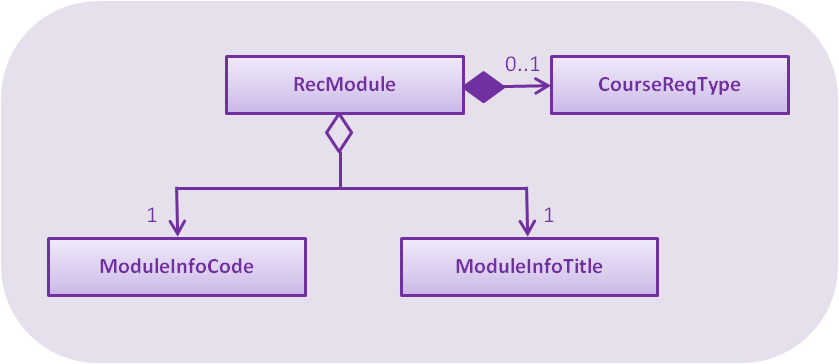
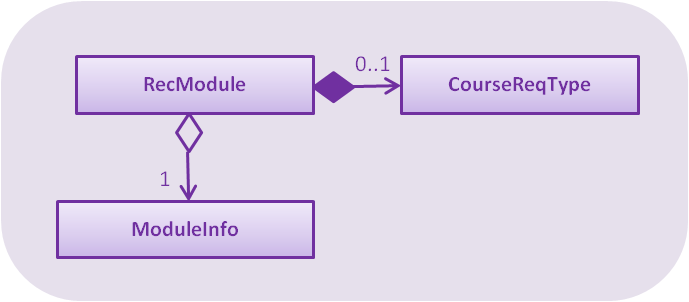
Rebuild pages at 442a10adc8877813006aaeaf22de2bf28a02880e

Changed region(s): [[0.0305, 0.149, 0.9448, 0.8642]]

diff --git a/team/lshwayne96.html b/team/lshwayne96.html
@@ -188,12 +188,12 @@ types satisfied. The entire list is displayed on the Result Panel upon entering 
 <div class="sect3">
 <h4 id="current-implementation"><a class="link" href="#current-implementation">Current implementation</a></h4>
 <div class="paragraph">
-<p>Each recommended module is represented by a <code>RecModule</code> which contains a unique <code>ModuleInfoCode</code>, <code>ModuleInfoTitle</code> and its corresponding
+<p>Each recommended module is represented by a <code>RecModule</code> which contains a unique <code>ModuleInfo</code> and its corresponding
 <code>CourseReqType</code> satisfied, as shown in the diagram below.</p>
 </div>
 <div class="imageblock">
 <div class="content">
-<img src="../images/RecModuleClassDiagram.png" alt="RecModuleClassDiagram" width="500">
+<img src="../images/RecModuleClassDiagram.png" alt="RecModuleClassDiagram" width="400">
 </div>
 <div class="title">Figure 5. <code>RecModule</code> class diagram</div>
 </div>
@@ -211,13 +211,16 @@ which is further wrapped in a <code>SortedList</code>, both stored in <code>Mode
 <p><code>Model#updateRecModuleList</code> is called, which creates a <code>RecModulePredicate</code> given the user&#8217;s <code>Course</code> and <code>GradTrak</code>, and a <code>RecModuleComparator</code>.</p>
 </li>
 <li>
-<p>The <code>RecModulePredicate</code> is applied to the <code>FilteredList</code> of <code>RecModule</code>.</p>
+<p>The <code>RecModulePredicate</code> is applied to the <code>FilteredList</code> of <code>RecModule</code>. In each test:</p>
 <div class="olist loweralpha">
 <ol class="loweralpha" type="a">
 <li>
-<p>It first tests if the <code>ModuleInfoCode</code> (call it <code>codeToTest</code>) in a <code>RecModule</code> is eligible to be read,
-using an <code>EligibleModulePredicate</code> which takes in <code>GradTrak</code>. Those <code>RecModule</code> corresponding to <code>ModuleTaken</code> in <code>GradTrak</code>
-which are already passed or to be read in a future semester (collectively known as non-failed modules) are filtered out at this stage.</p>
+<p>An <code>EligibleModulePredicate</code> which takes in <code>GradTrak</code> tests if the <code>ModuleInfo</code> of this <code>RecModule</code> is eligible to be read.
+If the module is already present in GradTrak or does not have its prerequisites satisfied, this <code>RecModule</code> is filtered out.</p>
+</li>
+<li>
+<p>The <code>ModuleInfoCode</code> (call it <code>codeToTest</code>) of the <code>RecModule</code> is retrieved.<br>
+A <code>nonFailedCodeList</code> of <code>ModuleInfoCode</code> corresponding to non-failed <code>ModuleTaken</code> (already passed or to be read in a future semester) is also retrieved from <code>GradTrak</code>.</p>
 </li>
 <li>
 <p>The <code>codeToTest</code> is then passed into <code>Course#getCourseReqTypeOf</code>, which in turn calls <code>CourseRequirement#canFulfill</code> for each <code>CourseRequirement</code> listed in <code>Course</code>.
@@ -225,8 +228,7 @@ which are already passed or to be read in a future semester (collectively known 
 This <code>courseReqTypeList</code> is sorted by the priority of <code>CourseReqType</code> as defined in the <code>enum</code> class: <code>CORE</code>, <code>BD</code>, <code>IE</code>, <code>FAC</code>, <code>GE</code>, <code>UE</code>.</p>
 </li>
 <li>
-<p>A <code>nonFailedCodeList</code> of <code>ModuleInfoCode</code> corresponding to non-failed <code>ModuleTaken</code> is retrieved from <code>GradTrak</code>.
-For each <code>CourseReqType</code> in the <code>courseReqTypeList</code> (highest priority first):</p>
+<p>For each <code>CourseReqType</code> in the <code>courseReqTypeList</code> (highest priority first):</p>
 <div class="olist lowerroman">
 <ol class="lowerroman" type="i">
 <li>
@@ -245,7 +247,7 @@ is called which takes in the <code>nonFailedCodeList</code> and returns an <code
 </li>
 <li>
 <p>The <code>CourseReqType</code> of highest priority satisfied by <code>codeToTest</code> is then set into the <code>RecModule</code>. However, if the <code>codeToTest</code> does not
-contribute to any of the <code>CourseRequirement</code> listed in <code>Course</code>, the <code>RecModule</code> is filtered out.</p>
+contribute to any of the <code>CourseRequirement</code> listed in <code>Course</code>, this <code>RecModule</code> is filtered out.</p>
 </li>
 </ol>
 </div>
@@ -253,7 +255,7 @@ contribute to any of the <code>CourseRequirement</code> listed in <code>Course</
 <li>
 <p>The <code>RecModuleComparator</code> is applied to the <code>SortedList</code> of <code>RecModule</code>. It sorts the list in decreasing priority of the
 <code>CourseReqType</code> satisfied by the <code>RecModule</code>. Those <code>RecModule</code> with equal priority are sorted by module level (the first numerical digit of its <code>ModuleInfoCode</code>),
-considering that lower level modules are usually read first. In the case of equal priority and module level, lexicographical sorting is used.</p>
+considering that lower level modules are usually read first. In the case of equal priority and module level, lexicographical sorting of its <code>ModuleInfoCode</code> is used.</p>
 </li>
 <li>
 <p>The <code>SortedList</code> of <code>RecModule</code> is retrieved from <code>ModelManager</code> and displayed to the user in the Result Panel.</p>
@@ -321,39 +323,6 @@ must be run again to reflect the updated recommendation list.</p>
 </ul>
 </div>
 </div>
-<div class="sect4">
-<h5 id="aspect-how-code-coursereqtype-code-for-each-tested-module-is-stored"><a class="link" href="#aspect-how-code-coursereqtype-code-for-each-tested-module-is-stored">Aspect: How <code>CourseReqType</code> for each tested module is stored</a></h5>
-<div class="ulist">
-<ul>
-<li>
-<p><strong>Alternative 1 (current choice): <code>CourseReqType</code> is stored in <code>RecModule</code> together with <code>ModuleInfoCode</code> and <code>ModuleInfoTitle</code></strong></p>
-<div class="ulist">
-<ul>
-<li>
-<p>Pros: More organised; any additional information the user wishes to be displayed can also be stored in <code>RecModule</code></p>
-</li>
-<li>
-<p>Cons: More space required for creating <code>RecModule</code> for all modules</p>
-</li>
-</ul>
-</div>
-</li>
-<li>
-<p><strong>Alternative 2 (previous choice): A <code>HashMap</code> of <code>ModuleInfoCode</code> to <code>CourseReqType</code> is stored; the map is reset before each <code>rec</code> command</strong></p>
-<div class="ulist">
-<ul>
-<li>
-<p>Pros: Only need to store <code>ModuleInfoCode</code> instead of <code>RecModule</code></p>
-</li>
-<li>
-<p>Cons: Retrieving other information of the module for displaying in the Result Panel is slightly problematic</p>
-</li>
-</ul>
-</div>
-</li>
-</ul>
-</div>
-</div>
 </div>
 <div class="sect3">
 <h4 id="possible-improvements"><a class="link" href="#possible-improvements">Possible Improvements</a></h4>
@@ -370,4 +339,4 @@ must be run again to reflect the updated recommendation list.</p>
 </div>
 </div>
 </div>
-</div></div><div id="footer"><div class="container"><div id="footer-text">Last updated 2019-04-12 09:21:35 UTC</div></div></div></body></html>
+</div></div><div id="footer"><div class="container"><div id="footer-text">Last updated 2019-04-12 12:22:28 UTC</div></div></div></body></html>

diff --git a/DeveloperGuide.html b/DeveloperGuide.html
@@ -1058,12 +1058,12 @@ types satisfied. The entire list is displayed on the Result Panel upon entering 
 <div class="sect3">
 <h4 id="current-implementation-4"><a class="link" href="#current-implementation-4">3.4.1. Current implementation</a></h4>
 <div class="paragraph">
-<p>Each recommended module is represented by a <code>RecModule</code> which contains a unique <code>ModuleInfoCode</code>, <code>ModuleInfoTitle</code> and its corresponding
+<p>Each recommended module is represented by a <code>RecModule</code> which contains a unique <code>ModuleInfo</code> and its corresponding
 <code>CourseReqType</code> satisfied, as shown in the diagram below.</p>
 </div>
 <div class="imageblock">
 <div class="content">
-<img src="images/RecModuleClassDiagram.png" alt="RecModuleClassDiagram" width="500">
+<img src="images/RecModuleClassDiagram.png" alt="RecModuleClassDiagram" width="400">
 </div>
 <div class="title">Figure 9. <code>RecModule</code> class diagram</div>
 </div>
@@ -1081,13 +1081,16 @@ which is further wrapped in a <code>SortedList</code>, both stored in <code>Mode
 <p><code>Model#updateRecModuleList</code> is called, which creates a <code>RecModulePredicate</code> given the user&#8217;s <code>Course</code> and <code>GradTrak</code>, and a <code>RecModuleComparator</code>.</p>
 </li>
 <li>
-<p>The <code>RecModulePredicate</code> is applied to the <code>FilteredList</code> of <code>RecModule</code>.</p>
+<p>The <code>RecModulePredicate</code> is applied to the <code>FilteredList</code> of <code>RecModule</code>. In each test:</p>
 <div class="olist loweralpha">
 <ol class="loweralpha" type="a">
 <li>
-<p>It first tests if the <code>ModuleInfoCode</code> (call it <code>codeToTest</code>) in a <code>RecModule</code> is eligible to be read,
-using an <code>EligibleModulePredicate</code> which takes in <code>GradTrak</code>. Those <code>RecModule</code> corresponding to <code>ModuleTaken</code> in <code>GradTrak</code>
-which are already passed or to be read in a future semester (collectively known as non-failed modules) are filtered out at this stage.</p>
+<p>An <code>EligibleModulePredicate</code> which takes in <code>GradTrak</code> tests if the <code>ModuleInfo</code> of this <code>RecModule</code> is eligible to be read.
+If the module is already present in GradTrak or does not have its prerequisites satisfied, this <code>RecModule</code> is filtered out.</p>
+</li>
+<li>
+<p>The <code>ModuleInfoCode</code> (call it <code>codeToTest</code>) of the <code>RecModule</code> is retrieved.<br>
+A <code>nonFailedCodeList</code> of <code>ModuleInfoCode</code> corresponding to non-failed <code>ModuleTaken</code> (already passed or to be read in a future semester) is also retrieved from <code>GradTrak</code>.</p>
 </li>
 <li>
 <p>The <code>codeToTest</code> is then passed into <code>Course#getCourseReqTypeOf</code>, which in turn calls <code>CourseRequirement#canFulfill</code> for each <code>CourseRequirement</code> listed in <code>Course</code>.
@@ -1095,8 +1098,7 @@ which are already passed or to be read in a future semester (collectively known 
 This <code>courseReqTypeList</code> is sorted by the priority of <code>CourseReqType</code> as defined in the <code>enum</code> class: <code>CORE</code>, <code>BD</code>, <code>IE</code>, <code>FAC</code>, <code>GE</code>, <code>UE</code>.</p>
 </li>
 <li>
-<p>A <code>nonFailedCodeList</code> of <code>ModuleInfoCode</code> corresponding to non-failed <code>ModuleTaken</code> is retrieved from <code>GradTrak</code>.
-For each <code>CourseReqType</code> in the <code>courseReqTypeList</code> (highest priority first):</p>
+<p>For each <code>CourseReqType</code> in the <code>courseReqTypeList</code> (highest priority first):</p>
 <div class="olist lowerroman">
 <ol class="lowerroman" type="i">
 <li>
@@ -1115,7 +1117,7 @@ is called which takes in the <code>nonFailedCodeList</code> and returns an <code
 </li>
 <li>
 <p>The <code>CourseReqType</code> of highest priority satisfied by <code>codeToTest</code> is then set into the <code>RecModule</code>. However, if the <code>codeToTest</code> does not
-contribute to any of the <code>CourseRequirement</code> listed in <code>Course</code>, the <code>RecModule</code> is filtered out.</p>
+contribute to any of the <code>CourseRequirement</code> listed in <code>Course</code>, this <code>RecModule</code> is filtered out.</p>
 </li>
 </ol>
 </div>
@@ -1123,7 +1125,7 @@ contribute to any of the <code>CourseRequirement</code> listed in <code>Course</
 <li>
 <p>The <code>RecModuleComparator</code> is applied to the <code>SortedList</code> of <code>RecModule</code>. It sorts the list in decreasing priority of the
 <code>CourseReqType</code> satisfied by the <code>RecModule</code>. Those <code>RecModule</code> with equal priority are sorted by module level (the first numerical digit of its <code>ModuleInfoCode</code>),
-considering that lower level modules are usually read first. In the case of equal priority and module level, lexicographical sorting is used.</p>
+considering that lower level modules are usually read first. In the case of equal priority and module level, lexicographical sorting of its <code>ModuleInfoCode</code> is used.</p>
 </li>
 <li>
 <p>The <code>SortedList</code> of <code>RecModule</code> is retrieved from <code>ModelManager</code> and displayed to the user in the Result Panel.</p>
@@ -1184,39 +1186,6 @@ must be run again to reflect the updated recommendation list.</p>
 </li>
 <li>
 <p>Cons: Difficult to implement if several parameters for sorting is allowed; input method for the custom order is problematic</p>
-</li>
-</ul>
-</div>
-</li>
-</ul>
-</div>
-</div>
-<div class="sect4">
-<h5 id="aspect-how-code-coursereqtype-code-for-each-tested-module-is-stored"><a class="link" href="#aspect-how-code-coursereqtype-code-for-each-tested-module-is-stored">Aspect: How <code>CourseReqType</code> for each tested module is stored</a></h5>
-<div class="ulist">
-<ul>
-<li>
-<p><strong>Alternative 1 (current choice): <code>CourseReqType</code> is stored in <code>RecModule</code> together with <code>ModuleInfoCode</code> and <code>ModuleInfoTitle</code></strong></p>
-<div class="ulist">
-<ul>
-<li>
-<p>Pros: More organised; any additional information the user wishes to be displayed can also be stored in <code>RecModule</code></p>
-</li>
-<li>
-<p>Cons: More space required for creating <code>RecModule</code> for all modules</p>
-</li>
-</ul>
-</div>
-</li>
-<li>
-<p><strong>Alternative 2 (previous choice): A <code>HashMap</code> of <code>ModuleInfoCode</code> to <code>CourseReqType</code> is stored; the map is reset before each <code>rec</code> command</strong></p>
-<div class="ulist">
-<ul>
-<li>
-<p>Pros: Only need to store <code>ModuleInfoCode</code> instead of <code>RecModule</code></p>
-</li>
-<li>
-<p>Cons: Retrieving other information of the module for displaying in the Result Panel is slightly problematic</p>
 </li>
 </ul>
 </div>
@@ -3013,4 +2982,4 @@ Expected: Similar to previous.</p>
 </div>
 </div>
 </div>
-</div></div><div id="footer"><div class="container"><div id="footer-text">Last updated 2019-04-12 09:21:35 UTC</div></div></div></body></html>
+</div></div><div id="footer"><div class="container"><div id="footer-text">Last updated 2019-04-12 12:22:28 UTC</div></div></div></body></html>

diff --git a/team/monikernemo.html b/team/monikernemo.html
@@ -322,4 +322,4 @@ to investigate various effects of different Cuckoo Hash schemes.
 and <a href="https://github.com/monikernemo/CS5330-Experimental-Assignment">more on the codes of the implementation here</a></p>
 </div>
 </div>
-</div></div><div id="footer"><div class="container"><div id="footer-text">Last updated 2019-04-12 09:21:35 UTC</div></div></div></body></html>
+</div></div><div id="footer"><div class="container"><div id="footer-text">Last updated 2019-04-12 12:22:28 UTC</div></div></div></body></html>

diff --git a/team/johndoe.html b/team/johndoe.html
@@ -369,4 +369,4 @@ If the <code>currentStatePointer</code> is at index <code>gradTrakStateList.size
 <p><em>{Optionally, you may include other projects in your portfolio.}</em></p>
 </div>
 </div>
-</div></div><div id="footer"><div class="container"><div id="footer-text">Last updated 2019-04-12 09:21:35 UTC</div></div></div></body></html>
+</div></div><div id="footer"><div class="container"><div id="footer-text">Last updated 2019-04-12 12:22:28 UTC</div></div></div></body></html>

diff --git a/ContactUs.html b/ContactUs.html
@@ -12,4 +12,4 @@
 <p><strong>Email us</strong> : You can also reach us at <code>e0176751 [at] u.nus.edu</code></p>
 </li>
 </ul>
-</div></div><div id="footer"><div class="container"><div id="footer-text">Last updated 2019-04-12 09:21:35 UTC</div></div></div></body></html>
+</div></div><div id="footer"><div class="container"><div id="footer-text">Last updated 2019-04-12 12:22:28 UTC</div></div></div></body></html>

diff --git a/UsingGradle.html b/UsingGradle.html
@@ -255,4 +255,4 @@ See <code>build.gradle</code> &#8594; <code>allprojects</code> &#8594; <code>dep
 </ul>
 </div>
 </div>
-</div></div><div id="footer"><div class="container"><div id="footer-text">Last updated 2019-04-12 09:21:35 UTC</div></div></div></body></html>
+</div></div><div id="footer"><div class="container"><div id="footer-text">Last updated 2019-04-12 12:22:28 UTC</div></div></div></body></html>

diff --git a/UsingNetlify.html b/UsingNetlify.html
@@ -123,4 +123,4 @@ The publish directory is the directory in which the built HTML documentation res
 </ol>
 </div>
 </div>
-</div></div><div id="footer"><div class="container"><div id="footer-text">Last updated 2019-04-12 09:21:35 UTC</div></div></div></body></html>
+</div></div><div id="footer"><div class="container"><div id="footer-text">Last updated 2019-04-12 12:22:28 UTC</div></div></div></body></html>

diff --git a/UsingCoveralls.html b/UsingCoveralls.html
@@ -96,4 +96,4 @@ If you have not set up Travis CI, see <a href="UsingTravis.html">UsingTravis.ado
 </ol>
 </div>
 </div>
-</div></div><div id="footer"><div class="container"><div id="footer-text">Last updated 2019-04-12 09:21:35 UTC</div></div></div></body></html>
+</div></div><div id="footer"><div class="container"><div id="footer-text">Last updated 2019-04-12 12:22:28 UTC</div></div></div></body></html>

diff --git a/UsingTravis.html b/UsingTravis.html
@@ -277,4 +277,4 @@ Suggested change: Remove the codacy badge from <code>README</code>.</p>
 </div>
 </div>
 </div>
-</div></div><div id="footer"><div class="container"><div id="footer-text">Last updated 2019-04-12 09:21:35 UTC</div></div></div></body></html>
+</div></div><div id="footer"><div class="container"><div id="footer-text">Last updated 2019-04-12 12:22:28 UTC</div></div></div></body></html>

diff --git a/UsingCheckstyle.html b/UsingCheckstyle.html
@@ -91,4 +91,4 @@ Restart the IDE to complete the installation.</p>
 </ul>
 </div>
 </div>
-</div></div><div id="footer"><div class="container"><div id="footer-text">Last updated 2019-04-12 09:21:35 UTC</div></div></div></body></html>
+</div></div><div id="footer"><div class="container"><div id="footer-text">Last updated 2019-04-12 12:22:28 UTC</div></div></div></body></html>

diff --git a/AboutUs.html b/AboutUs.html
@@ -93,4 +93,4 @@ Responsibilities: Additional commands</p>
 <hr>
 </div>
 </div>
-</div></div><div id="footer"><div class="container"><div id="footer-text">Last updated 2019-04-12 09:21:35 UTC</div></div></div></body></html>
+</div></div><div id="footer"><div class="container"><div id="footer-text">Last updated 2019-04-12 12:22:28 UTC</div></div></div></body></html>

diff --git a/UsingAppVeyor.html b/UsingAppVeyor.html
@@ -145,4 +145,4 @@ grant access:</p>
 </ol>
 </div>
 </div>
-</div></div><div id="footer"><div class="container"><div id="footer-text">Last updated 2019-04-12 09:21:35 UTC</div></div></div></body></html>
+</div></div><div id="footer"><div class="container"><div id="footer-text">Last updated 2019-04-12 12:22:28 UTC</div></div></div></body></html>
